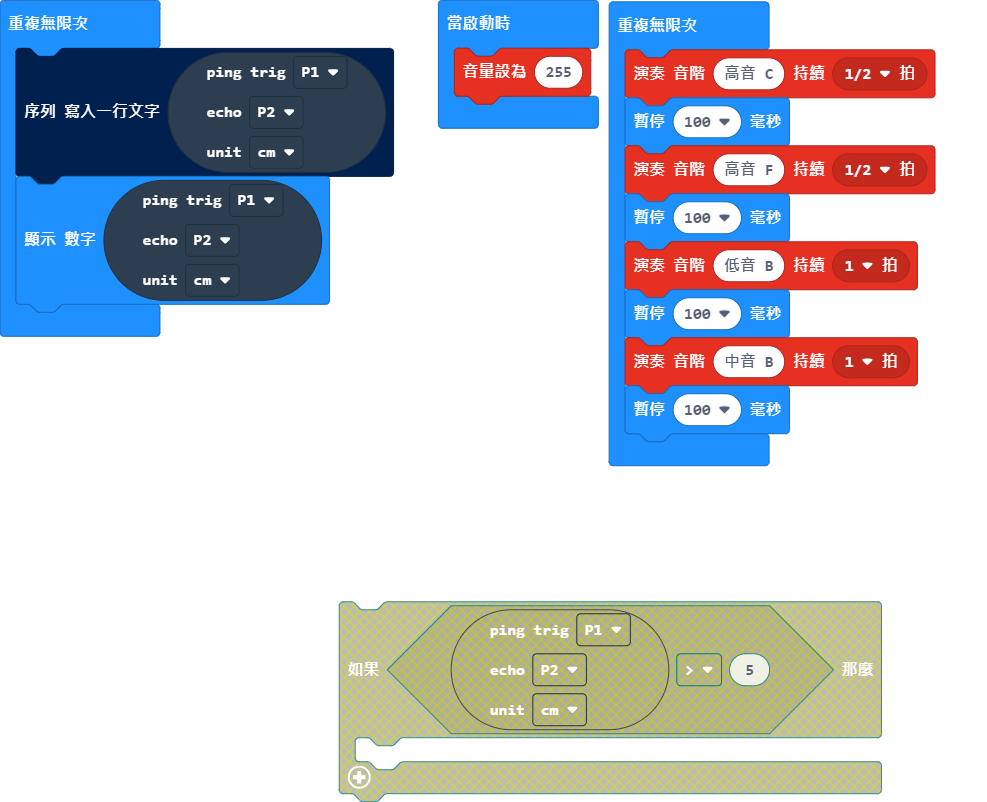
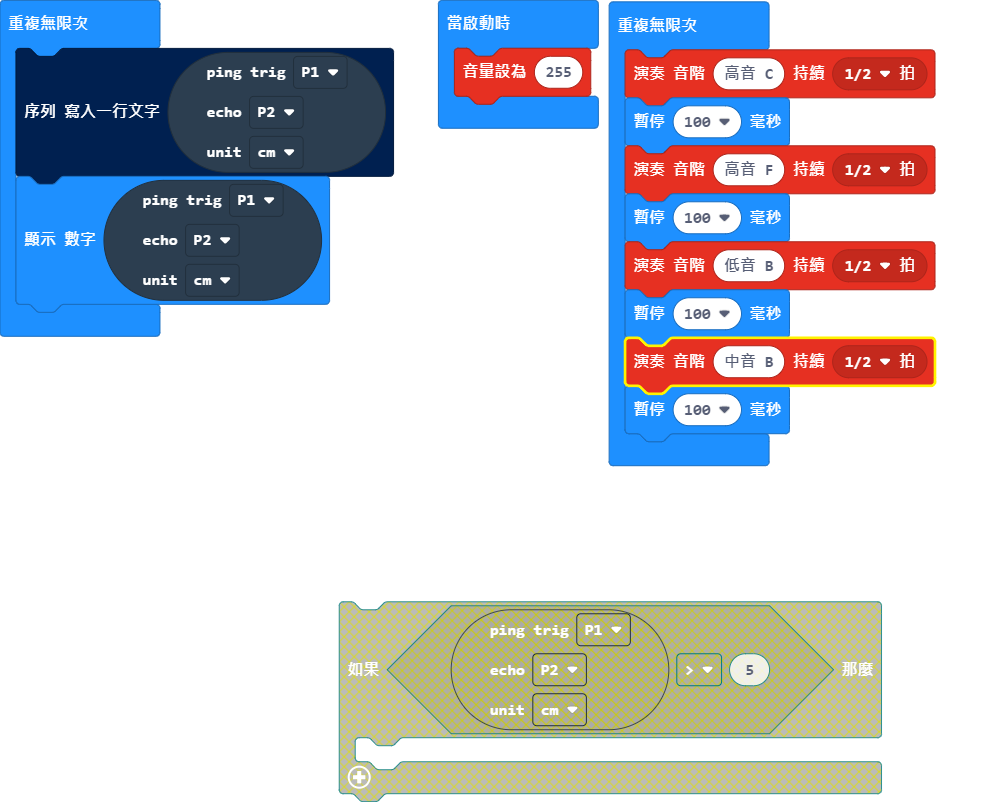
更新 main.blocks, main.ts

Changed region(s): [[0.6383, 0.4052, 0.9726, 0.4988], [0.8511, 0.2805, 0.9726, 0.3741], [0.6079, 0.4364, 0.6383, 0.4676]]

diff --git a/main.ts b/main.ts
@@ -16,8 +16,8 @@ basic.forever(function () {
     basic.pause(100)
     music.playTone(698, music.beat(BeatFraction.Half))
     basic.pause(100)
-    music.playTone(247, music.beat(BeatFraction.Whole))
+    music.playTone(247, music.beat(BeatFraction.Half))
     basic.pause(100)
-    music.playTone(494, music.beat(BeatFraction.Whole))
+    music.playTone(494, music.beat(BeatFraction.Half))
     basic.pause(100)
 })
